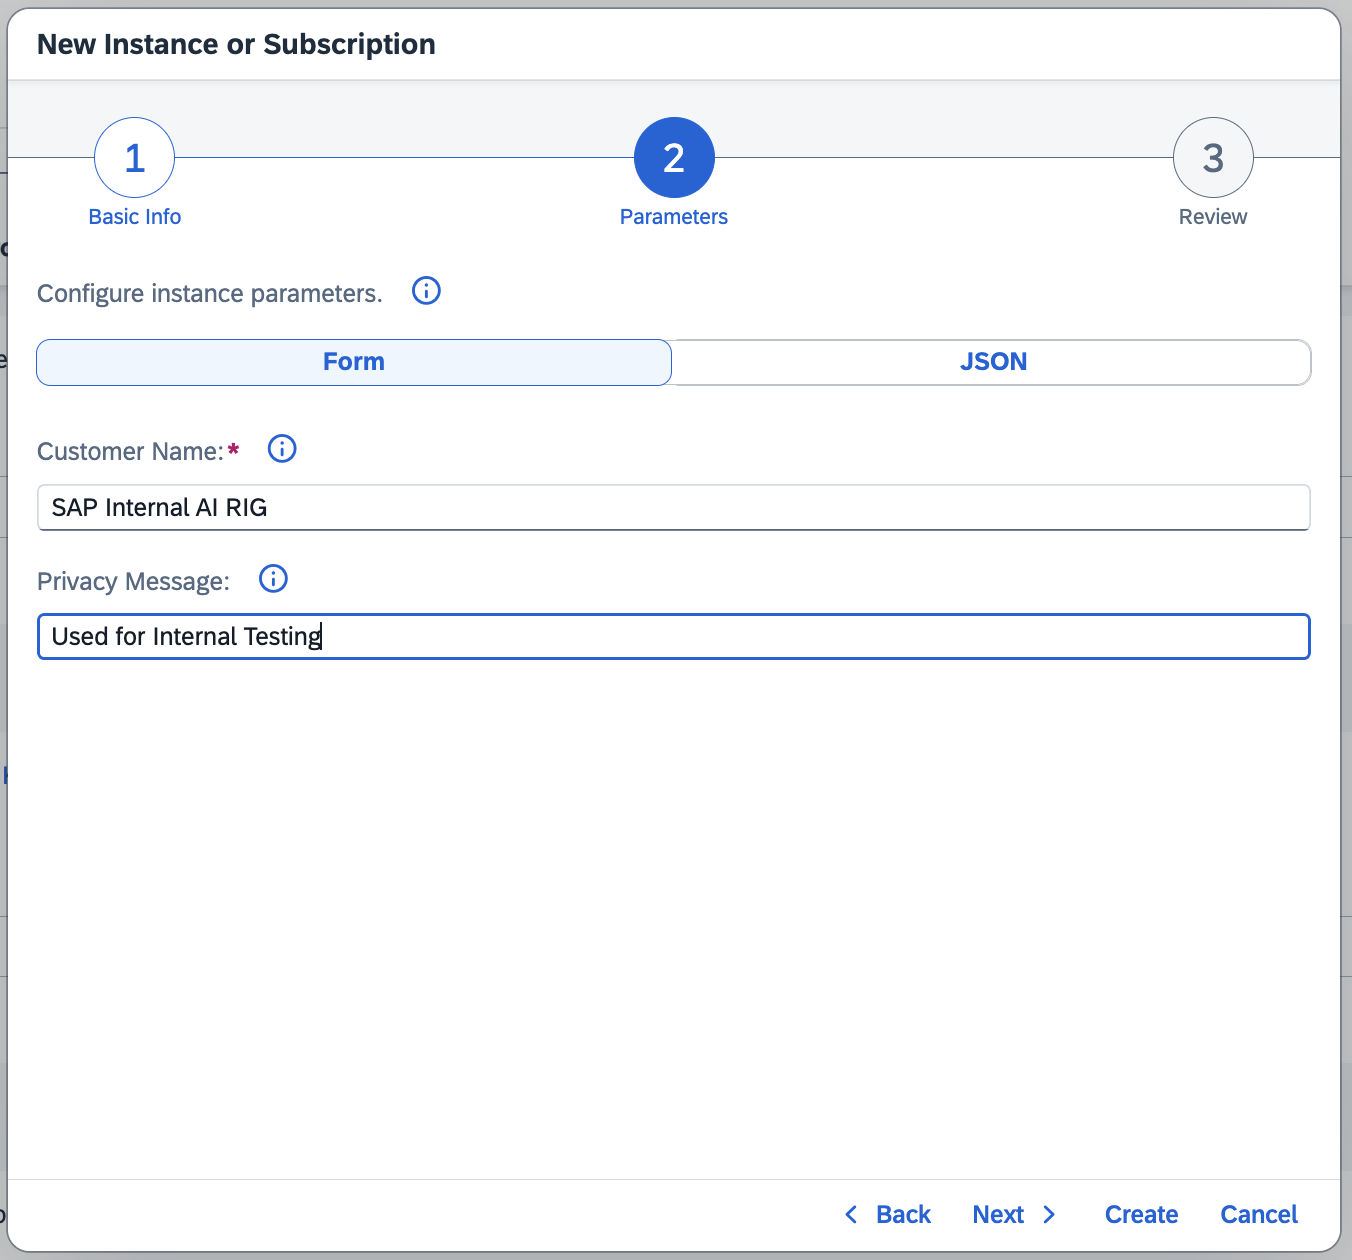
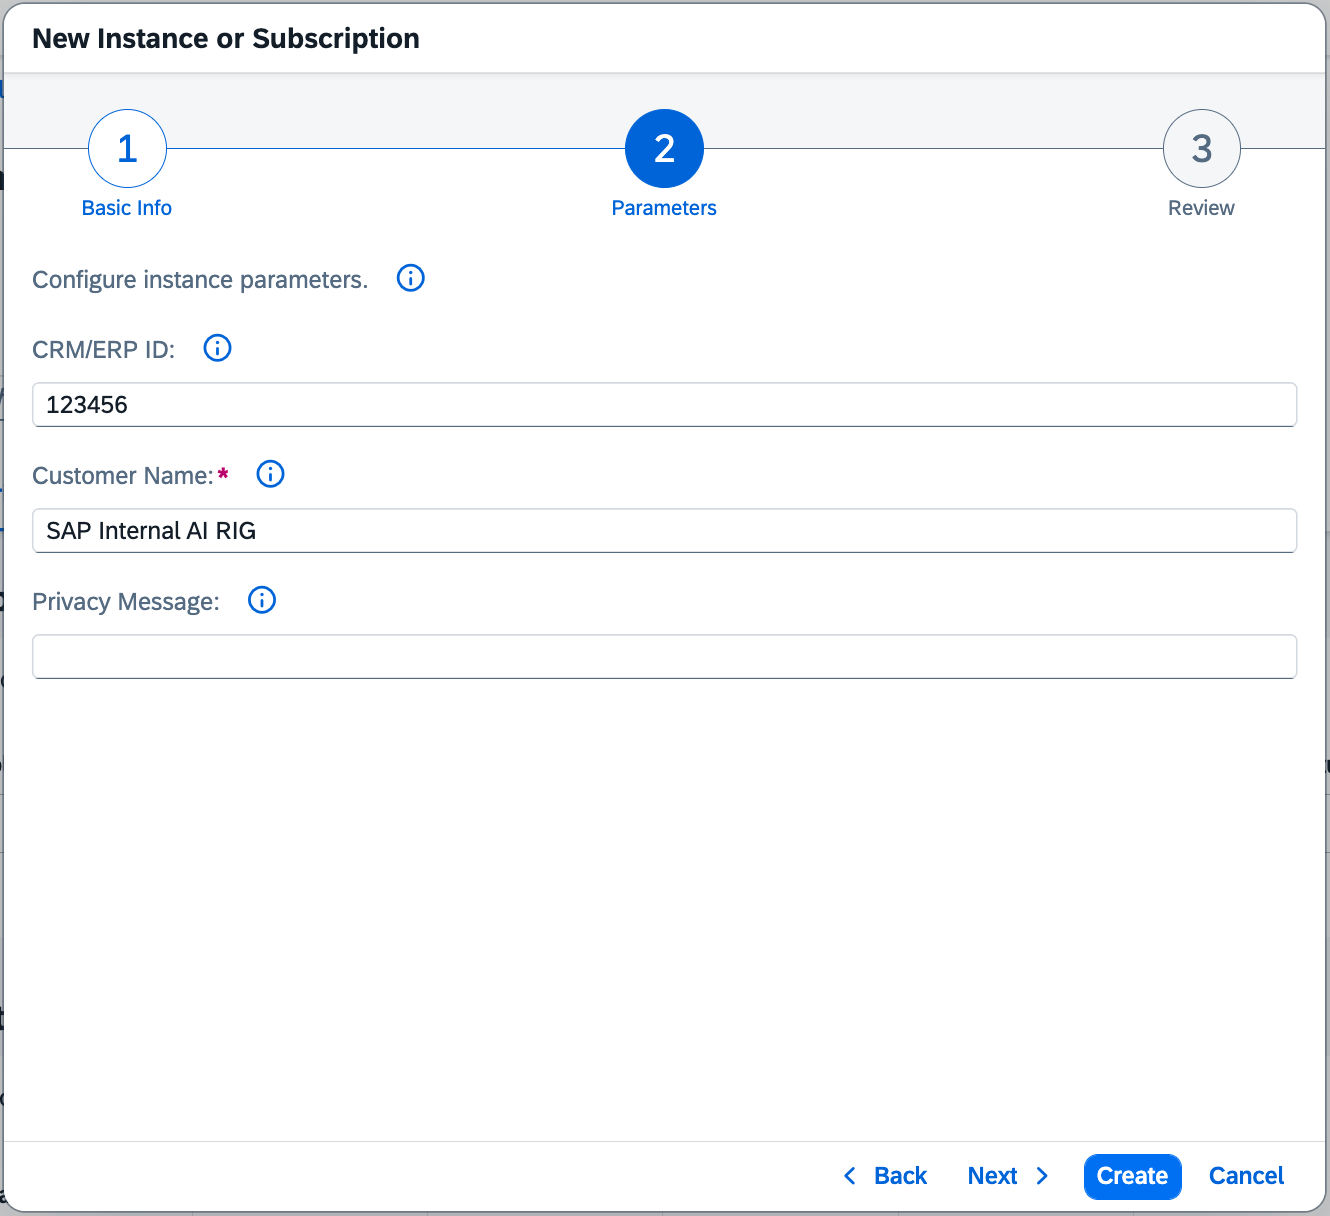
Update J4C mission

diff --git a/docs/SAP-Joule-for-Consultants/3_Set-Up/3.5_AccessSAPforMeandRequestActivation.md b/docs/SAP-Joule-for-Consultants/3_Set-Up/3.5_AccessSAPforMeandRequestActivation.md
@@ -8,7 +8,7 @@ The AI Activation Dashboard can be found in <a href="https://me.sap.com/portfoli
 To log in to SAP for Me, you will need your SAP S-user ID with Cloud Administrator authorization.
  
 To activate the package, please [create a ticket](https://me.sap.com/createIssue/0) and include the following information:
-<li>Support component: CBC-AIX
+<li>Support component: CA-JOULE-BAI
 <li>URL of the SAP Cloud Identity Services tenant
 <li>PUPM package: SAP Joule for Consultants
 <li>Subaccount ID
@@ -42,7 +42,7 @@ You can add the users manually or use the <a href="https://help.sap.com/docs/clo
 Charges will occur based on the total number of users assigned to the license group during the month.
 
 ## Assign users to the authorization groups for console access
-The Joule for Consultants console uses two built-in access role policies:
+The Joule for Consultants Console uses two built-in access role policies:
 <li>Admin – Complete access to all console features (including settings section and usage metrics section).</li>
 <li>Standard – Limited access. Currently optional.</li>
 <br><br>
@@ -87,4 +87,11 @@ Instead of creating the user group SAP_JOULE_END_USER in the SAP Cloud Identity 
 </p>
 
 ## Enable access to gated content
-Joule for Consultants provides access to exclusive content unavailable to other chatbots, such as SAP Notes and Knowledge Base Articles (KBAs). To access this gated content, each user must have a corresponding S-user. Ensure the email address used for login matches the email associated with the S-user.
+Joule for Consultants provides access to exclusive content unavailable to other chatbots, such as SAP Notes and Knowledge Base Articles (KBAs). To access this gated content, each user must have a corresponding S-user. Ensure the email address used for login matches the email associated with the S-user. The S-user has to be associated with one of the Customer IDs listed in the Admin Console, in the section <b>Settings > Customer Information</b>.
+
+**Note:**
+To access the Console, navigate to <b>Instances and Subscription</b> in your BTP Subaccount and click on the <b>SAP Joule for Consultants</b> subscription.
+
+For more information on how to create and maintain S-users, please refer to:
+- [Get SAP S-user| SAP Help Portal](https://help.sap.com/docs/SAP_ENTITLEMENT_MANAGEMENT/2807ede877724c7b8f59f6e1c12a7d67/cff2d8cb05bf471cb09e0e969bff719d.html)
+- [S-user Maintenance in SAP for Me | Guided Answers](https://ga.support.sap.com/index.html#/tree/1475/actions/18516)

diff --git a/docs/SAP-Joule-for-Consultants/3_Set-Up/3.3_CreateaServiceInstance.md b/docs/SAP-Joule-for-Consultants/3_Set-Up/3.3_CreateaServiceInstance.md
@@ -10,12 +10,14 @@ We will now be activating the **SAP Joule for Consultants** service in your SAP 
 </p>
 <p align="center"> <b>Image 1</b> </p>
 <br>
-<li>Follow the on-screen instructions, no changes are required, and click on <b>Create</b></li>
+<li>Please enter both the Customer ID and the Customer Name.</li>
 <br>
 <p align="center"> 
 <img src="images/3.3.2.png"> 
 </p>
 <p align="center"> <b>Image 2</b> </p>
+<br>
+<li>Review the details and click on <b>Create</b></li>
 <br>
 <p align="center"> 
 <img src="images/3.3.02.png"> 

diff --git a/docs/SAP-Joule-for-Consultants/3_Set-Up/3.1_CheckServiceEntitlementinBTPCockpit.md b/docs/SAP-Joule-for-Consultants/3_Set-Up/3.1_CheckServiceEntitlementinBTPCockpit.md
@@ -2,6 +2,7 @@
 
 As part of the activation process for SAP Joule for Consultants, the setup should be done in a <b><i>standalone/dedicated subaccount</i></b> independent of Joule for Business, e.g. Joule with SAP SuccessFactors or Joule with SAP S/4HANA Cloud, etc.
 
+**Note**: In the subaccount, in the section <b>Security > Users</b>, the <i>Last Logon</i> information is available. With a dedicated subaccount, this information could be used to track which users are active.
 
 ## Check Service Entitlement
 

diff --git a/docs/SAP-Joule-for-Consultants/3_Set-Up/3.6_LaunchSAPJouleforConsultants.md b/docs/SAP-Joule-for-Consultants/3_Set-Up/3.6_LaunchSAPJouleforConsultants.md
@@ -4,7 +4,7 @@
 
 For the first time, as an administrator, you will need to open the Joule Standalone URL to access the service. To do this, you can navigate back to your SAP BTP Subaccount and follow the instructions. 
 
-<li>In your SAP BTP Subaccount, navigate to <b>Instances and Subscription</b>, click on the Joule instance  
+<li>In your SAP BTP Subaccount, navigate to <b>Instances and Subscription</b>, click on the <b>Joule</b> subscription.
 <br>
 <p align="center"> 
 <img src="images/3.8.1.png"> 
